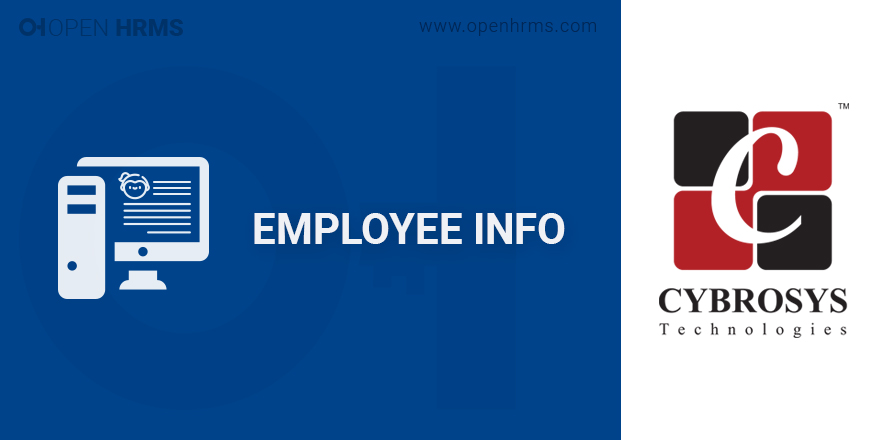
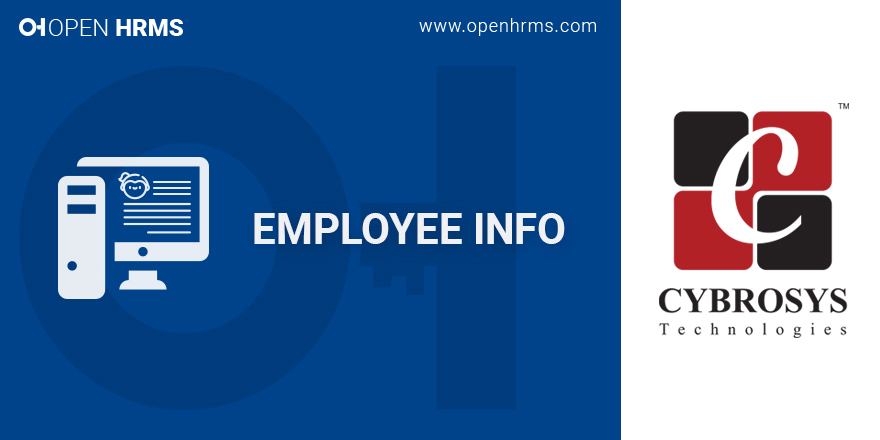
[UDT] Index Updated

Changed region(s): [[0.0, 0.0295, 0.2148, 0.0886], [0.4602, 0.0295, 0.675, 0.0886]]

diff --git a/hr_employee_updation/static/description/index.html b/hr_employee_updation/static/description/index.html
@@ -1,12 +1,11 @@
-
-<section class="oe_container oe_dark">
-    <div class="oe_row oe_spaced">
-        <h2 class="oe_slogan">OpenHRMS</h2>
+<section class="oe_container">
+    <div class="oe_row">
+        <h2 class="oe_slogan"><a href="https://www.openhrms.com">Open HRMS</a></h2>
         <h3 class="oe_slogan">Most advanced open source HR management software</h3>
     </div>
 </section>
 
-<section class="oe_container">
+<section class="oe_container oe_dark">
     <div class="oe_row oe_spaced oe_mt32">
         <div class="oe_span">
             <div class="oe_demo oe_picture oe_screenshot">
@@ -21,7 +20,7 @@
 
 <section class="oe_container">
     <div class="oe_row oe_spaced">
-        <h2 class="oe_slogan">OH Employee Info</h2>
+        <h2 class="oe_slogan">Open HRMS Employee Info</h2>
         <h3 class="oe_slogan">Added Advance Fields On Employee Master</h3>
         <h4 class="oe_slogan"><a href="https://www.cybrosys.com">Cybrosys Technologies</a> </h4>
     </div>
@@ -45,6 +44,50 @@
                 Such as family info, joining date, passport and Id expiry date.
                 This module also sends expiry notification for passport and id to corresponding employees.
             </p>
+        </div>
+    </div>
+</section>
+
+<section class="oe_container">
+    <div class="oe_row oe_spaced">
+        <h4 class="oe_slogan">Identification ID & Passport ID</h4>
+        <div class="oe_span12">
+            <div class="oe_row_img oe_centered">
+                <img class="oe_picture oe_screenshot" src="personal_info.png">
+            </div>
+        </div>
+    </div>
+</section>
+
+<section class="oe_container oe_dark">
+    <div class="oe_row oe_spaced">
+        <h4 class="oe_slogan">Emergency Contact Number</h4>
+        <div class="oe_span12">
+            <div class="oe_row_img oe_centered">
+                <img class="oe_picture oe_screenshot" src="emergency_contact.png">
+            </div>
+        </div>
+    </div>
+</section>
+
+<section class="oe_container">
+    <div class="oe_row oe_spaced">
+        <h4 class="oe_slogan">Family Information</h4>
+        <div class="oe_span12">
+            <div class="oe_row_img oe_centered">
+                <img class="oe_picture oe_screenshot" src="family_info.png">
+            </div>
+        </div>
+    </div>
+</section>
+
+<section class="oe_container oe_dark">
+    <div class="oe_row oe_spaced">
+        <h4 class="oe_slogan">Joining Date</h4>
+        <div class="oe_span12">
+            <div class="oe_row_img oe_centered">
+                <img class="oe_picture oe_screenshot" src="joining_date.png">
+            </div>
         </div>
     </div>
 </section>

diff --git a/hr_employee_updation/models/hr_employee.py b/hr_employee_updation/models/hr_employee.py
@@ -29,28 +29,26 @@ GENDER_SELECTION = [('male', 'Male'),
 
 
 class HrEmployeeContractName(models.Model):
+    """This class is to add emergency contact table"""
     _name = 'hr.emergency.contact'
     _description = 'HR Emergency Contact'
 
-    number = fields.Char(string='Number')
-    relation = fields.Char(string='Contact')
+    number = fields.Char(string='Number', help='Contact Number')
+    relation = fields.Char(string='Contact', help='Relation with employee')
     employee_obj = fields.Many2one('hr.employee', invisible=1)
 
 
-class HrEmployeeDocumentName(models.Model):
-    _name = 'hr.document.document'
-    _description = 'HR Employee Documents'
-
-    name = fields.Char(string='Name')
-
-
 class HrEmployeeFamily(models.Model):
+    """Table for keep employee family information"""
     _name = 'hr.employee.family'
     _description = 'HR Employee Family'
 
     member_name = fields.Char(string='Name', related='employee_ref.name', store=True)
-    employee_id = fields.Many2one(string="Employee", comodel_name='hr.employee', invisible=1)
-    employee_ref = fields.Many2one(string="Is Employee", comodel_name='hr.employee')
+    employee_id = fields.Many2one(string="Employee", help='Select corresponding Employee', comodel_name='hr.employee',
+                                  invisible=1)
+    employee_ref = fields.Many2one(string="Is Employee", help='If family member currently is an employee of '
+                                                              'same company, then please tick this field',
+                                   comodel_name='hr.employee')
     member_id = fields.Char(string='Identification No', related='employee_ref.identification_id', store=True)
     member_passport = fields.Char(string='Passport No', related='employee_ref.passport_id', store=True)
     member_passport_expiry_date = fields.Date(string='Expiry Date', related='employee_ref.passport_expiry_date',
@@ -59,7 +57,7 @@ class HrEmployeeFamily(models.Model):
                                  ('mother', 'Mother'),
                                  ('daughter', 'Daughter'),
                                  ('son', 'Son'),
-                                 ('wife', 'Wife')], string='Relationship')
+                                 ('wife', 'Wife')], string='Relationship', help='Relation with employee')
     member_contact = fields.Char(string='Contact No', related='employee_ref.personal_mobile', store=True)
     date_of_birth = fields.Date(string="Date of Birth", related='employee_ref.birthday', store=True)
     gender = fields.Selection(string='Gender', selection=GENDER_SELECTION, related='employee_ref.gender', store=True)
@@ -102,14 +100,14 @@ class HrEmployee(models.Model):
     personal_mobile = fields.Char(string='Mobile', related='address_home_id.mobile', store=True)
     emergency_contact = fields.One2many('hr.emergency.contact', 'employee_obj', string='Emergency Contact')
     joining_date = fields.Date(string='Joining Date')
-    id_expiry_date = fields.Date(string='Expiry Date')
-    passport_expiry_date = fields.Date(string='Expiry Date')
+    id_expiry_date = fields.Date(string='Expiry Date', help='Expiry date of Identification ID')
+    passport_expiry_date = fields.Date(string='Expiry Date', help='Expiry date of Passport ID')
     id_attachment_id = fields.Many2many('ir.attachment', 'id_attachment_rel', 'id_ref', 'attach_ref',
                                         string="Attachment", help='You can attach the copy of your Id')
     passport_attachment_id = fields.Many2many('ir.attachment', 'passport_attachment_rel', 'passport_ref', 'attach_ref1',
                                               string="Attachment",
                                               help='You can attach the copy of Passport')
-    fam_ids = fields.One2many('hr.employee.family', 'employee_id', string='Family')
+    fam_ids = fields.One2many('hr.employee.family', 'employee_id', string='Family', help='Family Information')
 
 
 class HrEmployeeAttachment(models.Model):

diff --git a/hr_employee_updation/__manifest__.py b/hr_employee_updation/__manifest__.py
@@ -1,6 +1,6 @@
 # -*- coding: utf-8 -*-
 ###################################################################################
-#    A part of OpenHRMS Project <https://www.openhrms.com>
+#    A part of Open HRMS Project <https://www.openhrms.com>
 #
 #    Cybrosys Technologies Pvt. Ltd.
 #    Copyright (C) 2018-TODAY Cybrosys Technologies (<https://www.cybrosys.com>).
@@ -21,9 +21,9 @@
 #
 ###################################################################################
 {
-    'name': 'OHRMS Employee Info',
-    'version': '10.0.1.0.0',
-    'summary': """Adding Advance Fields In Employee Master""",
+    'name': 'Open HRMS Employee Info',
+    'version': '10.0.1.1.0',
+    'summary': """Adding Advanced Fields In Employee Master""",
     'description': 'This module helps you to add more information in employee records.',
     'category': 'Generic Modules/Human Resources',
     'author': 'Cybrosys Techno Solutions',

diff --git a/hr_employee_updation/README.md b/hr_employee_updation/README.md
@@ -1,6 +1,6 @@
-OHRMS Employee Info
--------------------
-Supporting Addon for Open HRMS, Added Advance Fields On Employee Master
+Open HRMS Employee Info
+-----------------------
+Supporting Addon for Open HRMS, Added Advanced Fields On Employee Master.
 
 Connect with experts
 --------------------

diff --git a/hr_employee_updation/doc/RELEASE_NOTES.md b/hr_employee_updation/doc/RELEASE_NOTES.md
@@ -1,0 +1,11 @@
+## Module <hr_employee_updation>
+
+#### 07.04.2018
+#### Version 10.0.1.1.0
+##### CHG
+- Index updated.
+
+#### 30.03.2018
+#### Version 10.0.1.0.0
+##### ADD
+- Initial commit for Open HRMS Project
